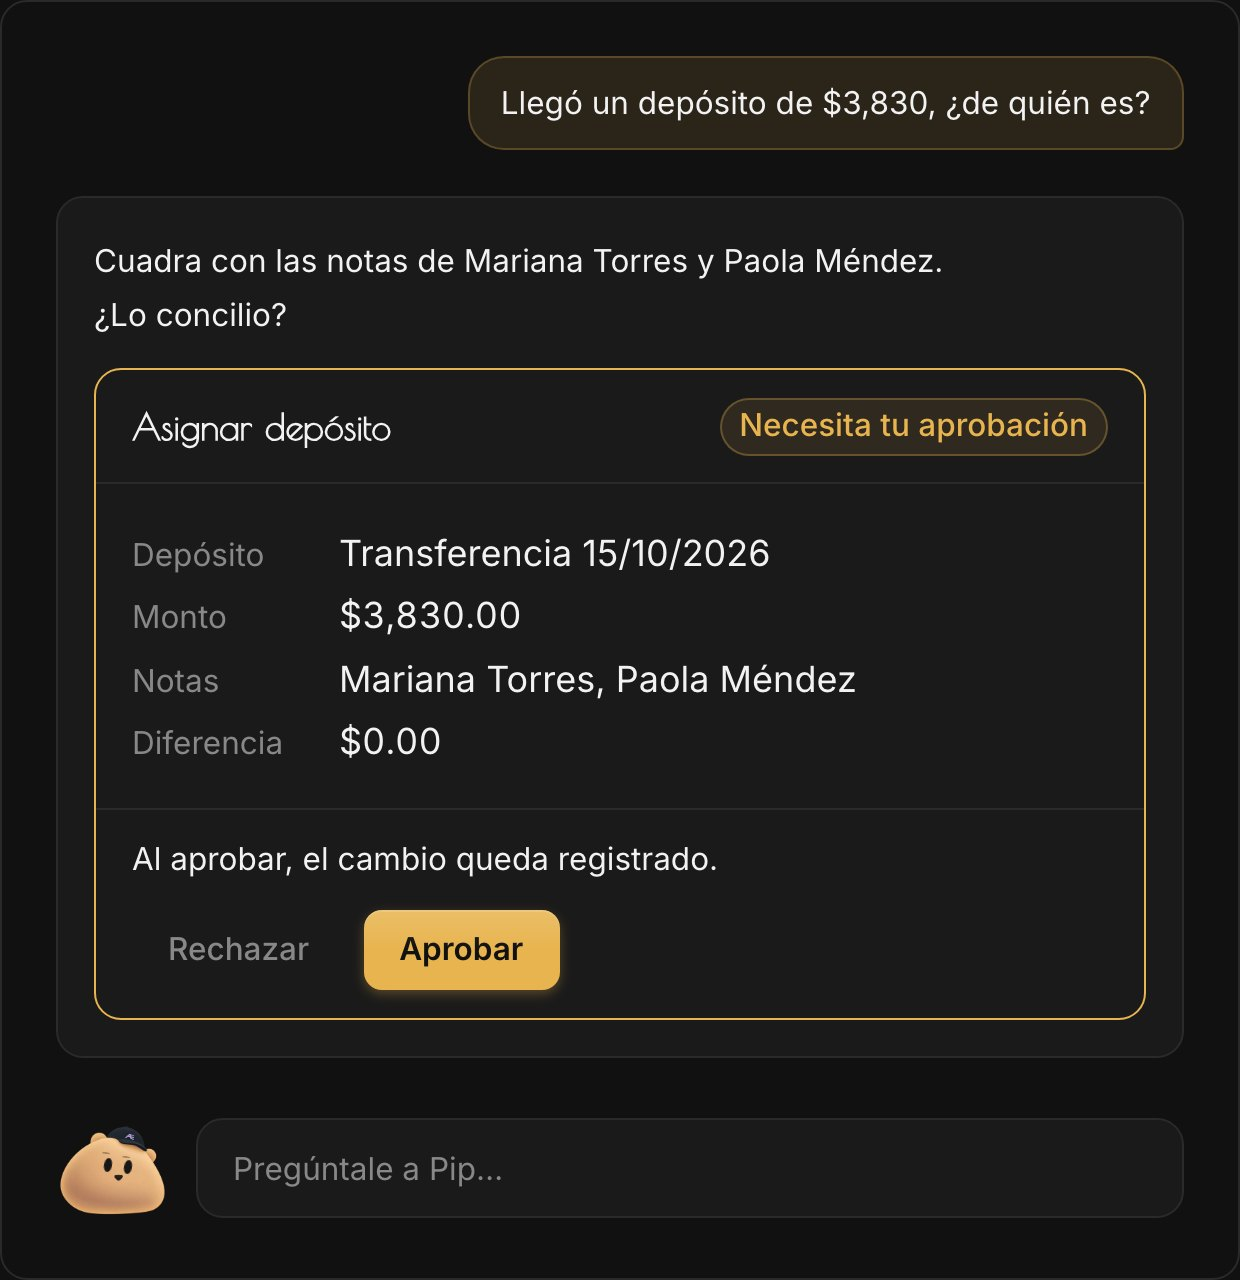
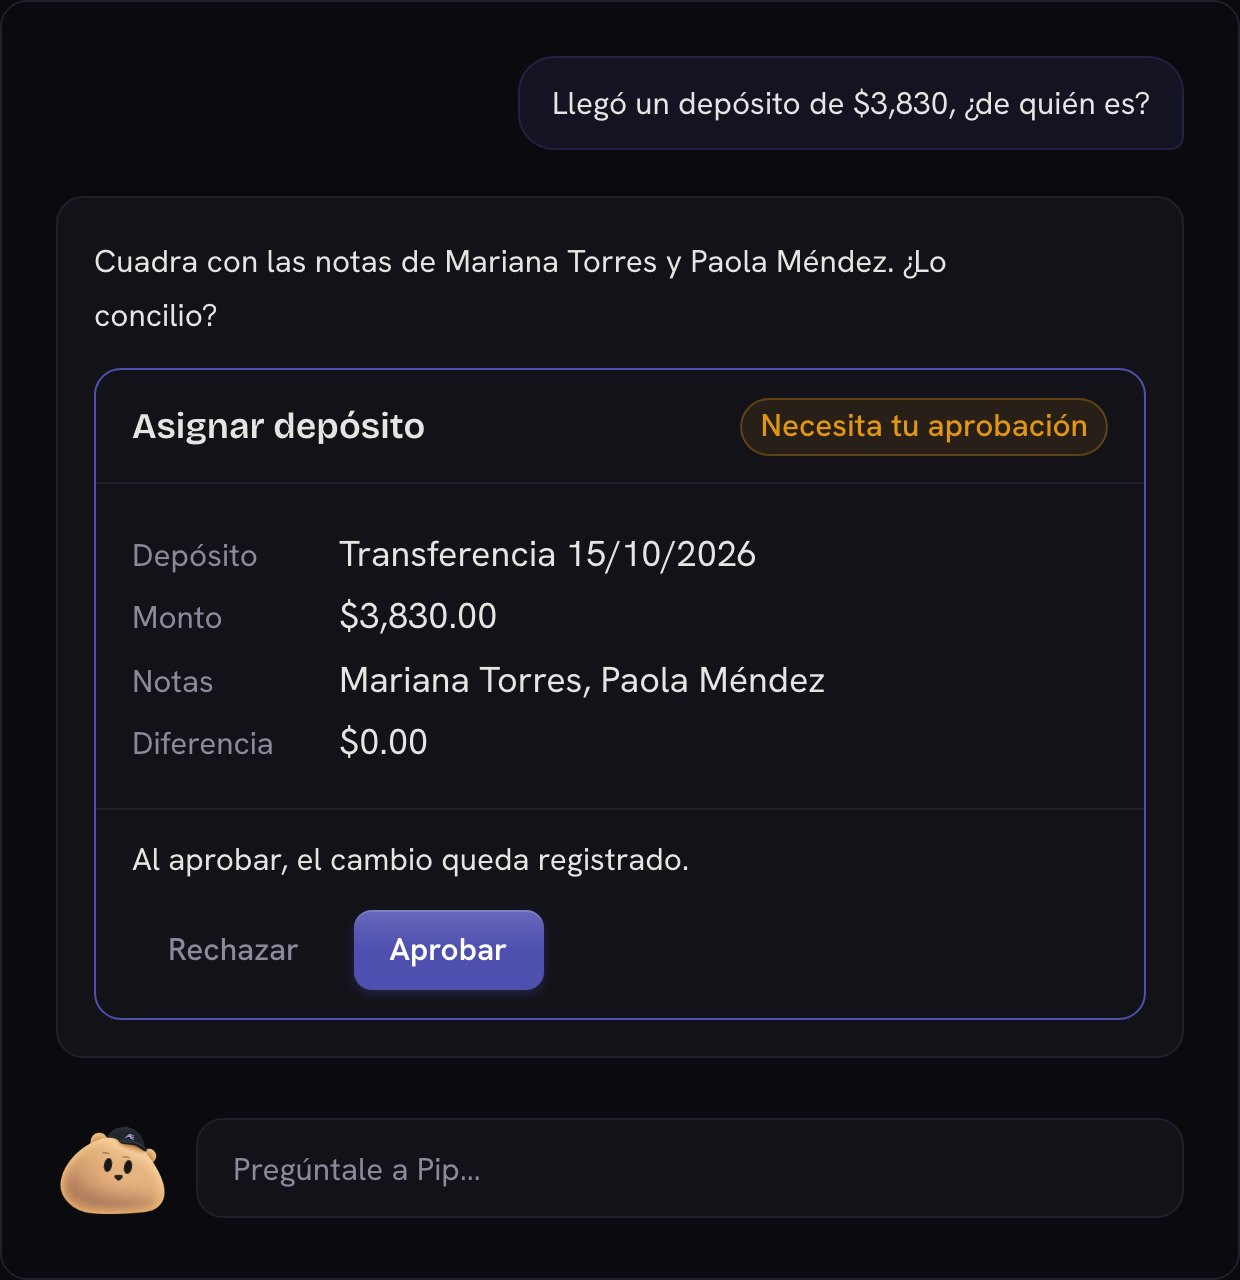
Render the Pip screens in the Æther skin
Same test data, drawn with the Æther tenant's palette and fonts so the
screens match the site's indigo. The first chart colour is set to the
brand primary for these captures.

diff --git a/src/components/PipSection.tsx b/src/components/PipSection.tsx
@@ -4,7 +4,7 @@ import { EASE, viewport } from "@/lib/motion";
 import { Section } from "@/components/Sheet";
 
 /* Pip, the assistant inside the app. Screens are the app's own chat parts
-   (answer, chart, table, approval card) rendered on test data, one image per
+   (answer, chart, table, approval card) in the Æther skin on test data, one image per
    language and theme in public/work/pip/<shot>-<theme>-<lang>.jpg. The first
    three read, the last three wait on "Aprobar". */
 const SHOTS = ["money", "owes", "plans", "pay", "deposit", "send"] as const;
